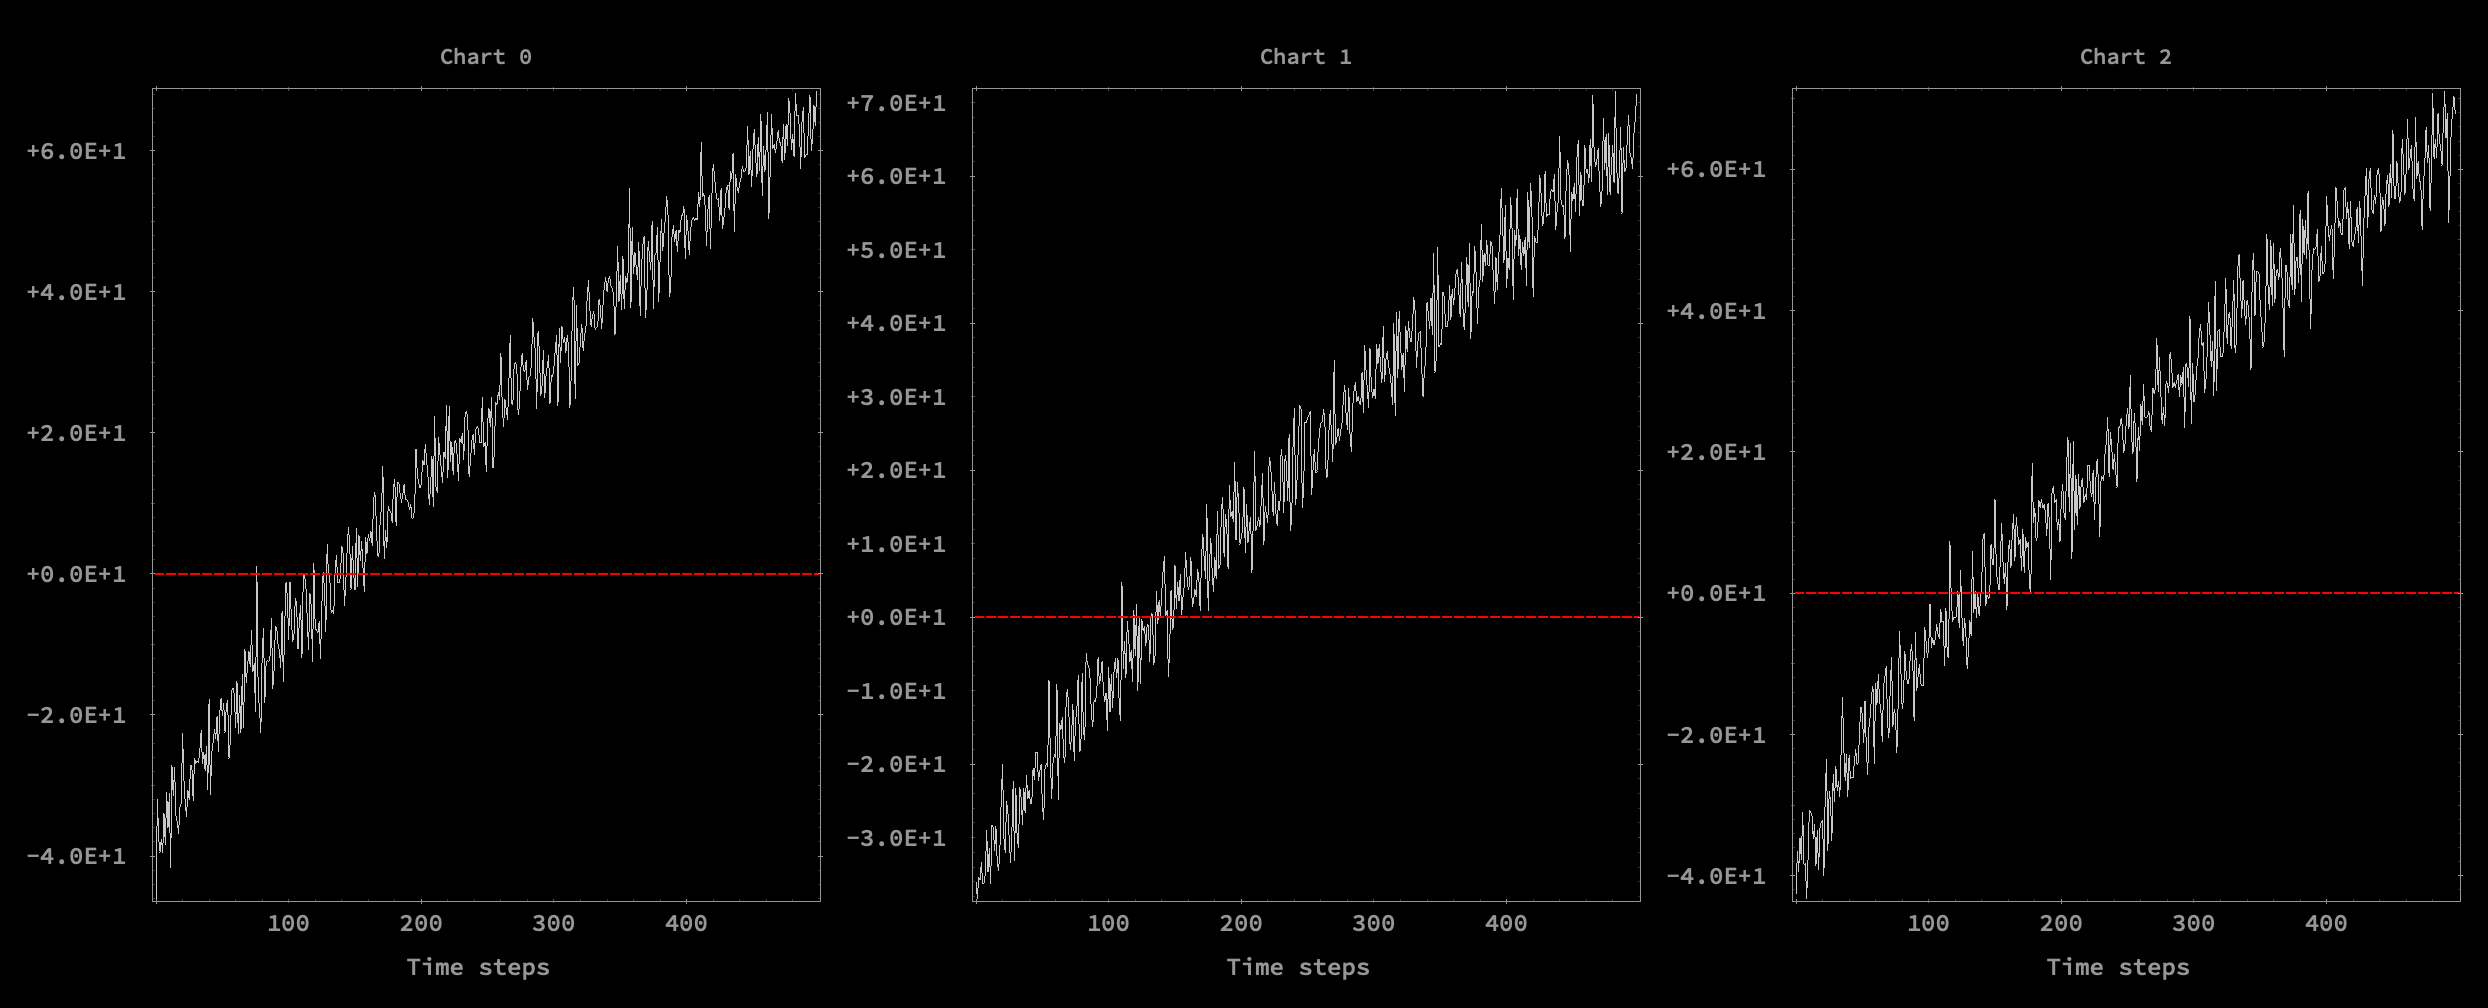
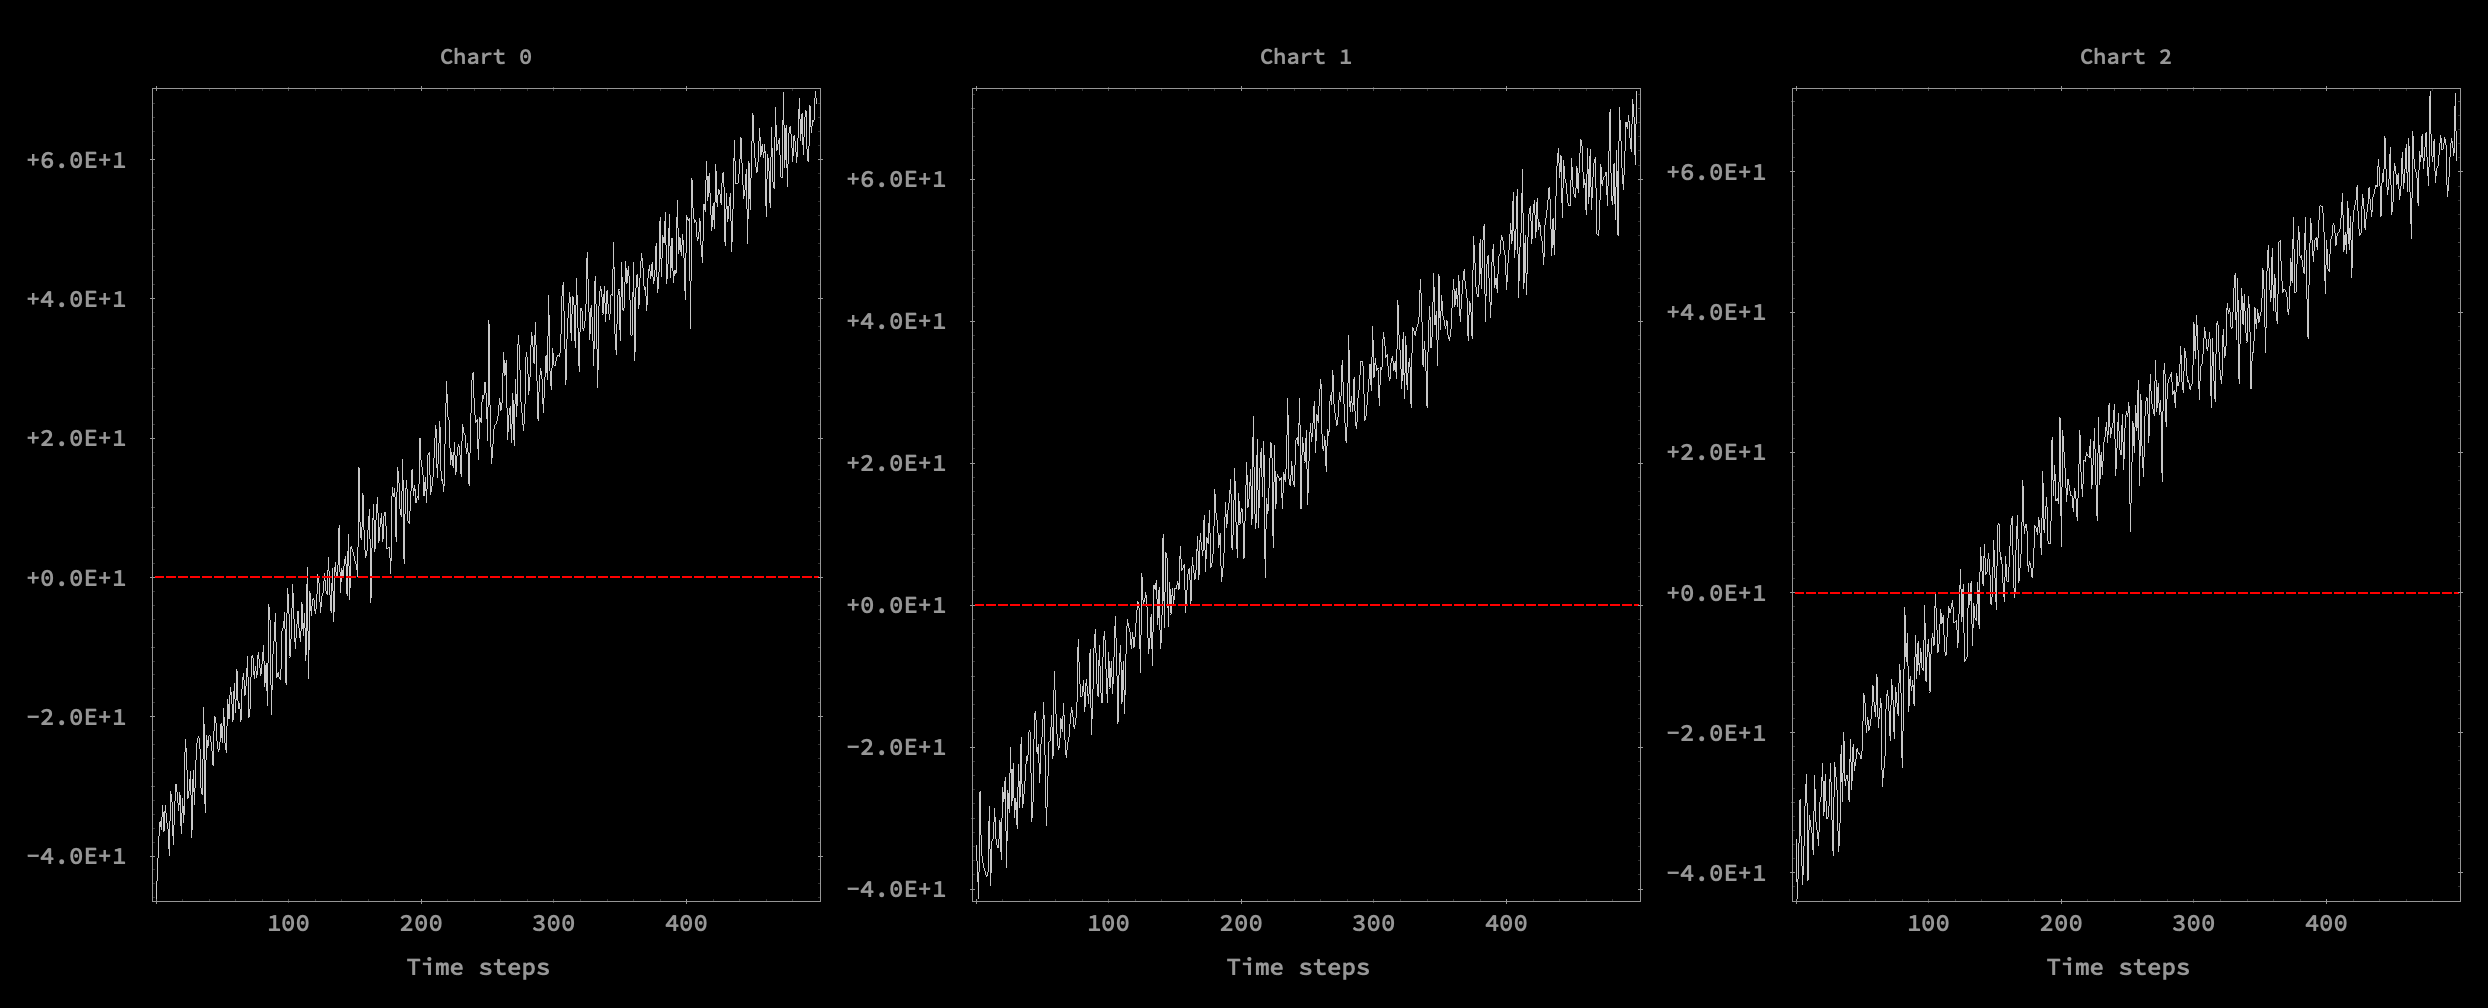
.

diff --git a/LaserScanningMicroscopy/Point_scan_app_v0/app_v0.py b/LaserScanningMicroscopy/Point_scan_app_v0/app_v0.py
@@ -1,13 +1,14 @@
 import sys, os
-import numpy as np
 import random
-import time
-from PySide6 import QtWidgets
-from pyqtgraph import PlotWidget, plot
-import pyqtgraph as pg
+from PySide6 import QtWidgets, QtCore
 from PySide6.QtCore import QTimer,Qt
+import pyqtgraph as pg
 from PySide6.QtGui import QFontDatabase, QFont
 from decimal import Decimal
+from pyqtgraph import PlotWidget
+import numpy as np
+import time
+
 
 class CustomAxisItem(pg.AxisItem):
     def __init__(self, axis_label_ticks_distance, *args, **kwargs):
@@ -32,6 +33,7 @@ def load_font(font_path):
     return font_families[0]
 
 class LSMLivePlot(QtWidgets.QMainWindow):
+
     def __init__(self, 
                 channel_num=3, 
                 x_steps=500, 
@@ -113,46 +115,35 @@ class LSMLivePlot(QtWidgets.QMainWindow):
             if self.show_zero_level:
                 self.plots[chanel_id].addItem(zero_line)
 
-
-        self.timer = QTimer()
-        self.timer.timeout.connect(self.update_data)
-        self.data_acquision()
-
-    def data_acquision(self):
-
-
-        
-        # Real data acquision function happens here
-        time.sleep(0.025)
-        for chanel_id in range(self.channel_num):
-            self.y[chanel_id] = np.arange(self.x_steps) ** 0.75 + np.random.normal(scale=4, size=self.x_steps) - 40
-
-        self.count += 1
-        self.timer.start(0)
-
-        if self.count >= self.x_steps:
-            self.timer.stop()
-            QtWidgets.QApplication.quit()
-            self.save()
-
-    def update_data(self):
+    def update_data(self, count, y_data):
+        self.y = y_data
+        self.count = count
         for chanel_id in range(self.channel_num):
             self.curves[chanel_id].setData(self.x[:self.count], self.y[chanel_id][:self.count])
-        self.data_acquision()
-
-    def save(self):
-        # Capture the window as a QPixmap
-        pixmap = self.grab(self.rect()).toImage()
-
-        # Save the QPixmap to a PNG file
-        dir_path = os.path.dirname(os.path.realpath(__file__)) + '/'
-        file_path = dir_path + "window_capture.png"
-        pixmap.save(file_path)
-        print(type(pixmap))
 
 
+
+def main():
+
+    channel_num, x_steps = (2, 200)
+    app = QtWidgets.QApplication(sys.argv)
+    main_window = LSMLivePlot(channel_num=channel_num, x_steps=x_steps)
+    main_window.show()
     
-app = QtWidgets.QApplication(sys.argv)
-window = LSMLivePlot()
-window.show()
-sys.exit(app.exec())
+    for count in range(x_steps):
+
+        # Random delay between 0.5 and 2 seconds
+        time.sleep(random.uniform(0.005, 0.010))
+        # Generate new random y-data for the chart
+        y = np.random.normal(size=(channel_num, x_steps))
+        
+
+        # Update
+        main_window.update_data(count, y)
+        app.processEvents()
+
+    app.exit()
+
+
+if __name__ == "__main__":
+    main()

diff --git a/LaserScanningMicroscopy/Point_scan_app_v0/app.py b/LaserScanningMicroscopy/Point_scan_app_v0/app.py
@@ -1,12 +1,14 @@
 import sys, os
-import numpy as np
-import time
-from PySide6 import QtWidgets
-from pyqtgraph import PlotWidget
-import pyqtgraph as pg
+import random
+from PySide6 import QtWidgets, QtCore
 from PySide6.QtCore import QTimer,Qt
+import pyqtgraph as pg
 from PySide6.QtGui import QFontDatabase, QFont
 from decimal import Decimal
+from pyqtgraph import PlotWidget
+import numpy as np
+import time
+
 
 class CustomAxisItem(pg.AxisItem):
     def __init__(self, axis_label_ticks_distance, *args, **kwargs):
@@ -31,6 +33,7 @@ def load_font(font_path):
     return font_families[0]
 
 class LSMLivePlot(QtWidgets.QMainWindow):
+
     def __init__(self, 
                 channel_num=3, 
                 x_steps=500, 
@@ -112,45 +115,35 @@ class LSMLivePlot(QtWidgets.QMainWindow):
             if self.show_zero_level:
                 self.plots[chanel_id].addItem(zero_line)
 
-
-        self.timer = QTimer()
-        self.timer.timeout.connect(self.update_data)
-        self.data_acquision()
-
-    def data_acquision(self):
-
-
-        
-        # Real data acquision function happens here
-        time.sleep(0.025)
-        for chanel_id in range(self.channel_num):
-            self.y[chanel_id] = np.arange(self.x_steps) ** 0.75 + np.random.normal(scale=4, size=self.x_steps) - 40
-
-        self.count += 1
-        self.timer.start(0)
-
-        if self.count >= self.x_steps:
-            self.timer.stop()
-            QtWidgets.QApplication.quit()
-            self.save()
-
-    def update_data(self):
+    def update_data(self, count, y_data):
+        self.y = y_data
+        self.count = count
         for chanel_id in range(self.channel_num):
             self.curves[chanel_id].setData(self.x[:self.count], self.y[chanel_id][:self.count])
-        self.data_acquision()
-
-    def save(self):
-        # Capture the window as a QPixmap
-        pixmap = self.grab(self.rect()).toImage()
-
-        # Save the QPixmap to a PNG file
-        dir_path = os.path.dirname(os.path.realpath(__file__)) + '/'
-        pixmap.save(dir_path + "window_capture.png")
-        np.save(dir_path + "all_channel_data", self.y)
 
 
+
+def main():
+
+    channel_num, x_steps = (2, 200)
+    app = QtWidgets.QApplication(sys.argv)
+    main_window = LSMLivePlot(channel_num=channel_num, x_steps=x_steps)
+    main_window.show()
     
-app = QtWidgets.QApplication(sys.argv)
-window = LSMLivePlot()
-window.show()
-sys.exit(app.exec())
+    for count in range(x_steps):
+
+        # Random delay between 0.5 and 2 seconds
+        time.sleep(random.uniform(0.005, 0.010))
+        # Generate new random y-data for the chart
+        y = np.random.normal(size=(channel_num, x_steps))
+        
+
+        # Update
+        main_window.update_data(count, y)
+        app.processEvents()
+
+    app.exit()
+
+
+if __name__ == "__main__":
+    main()
